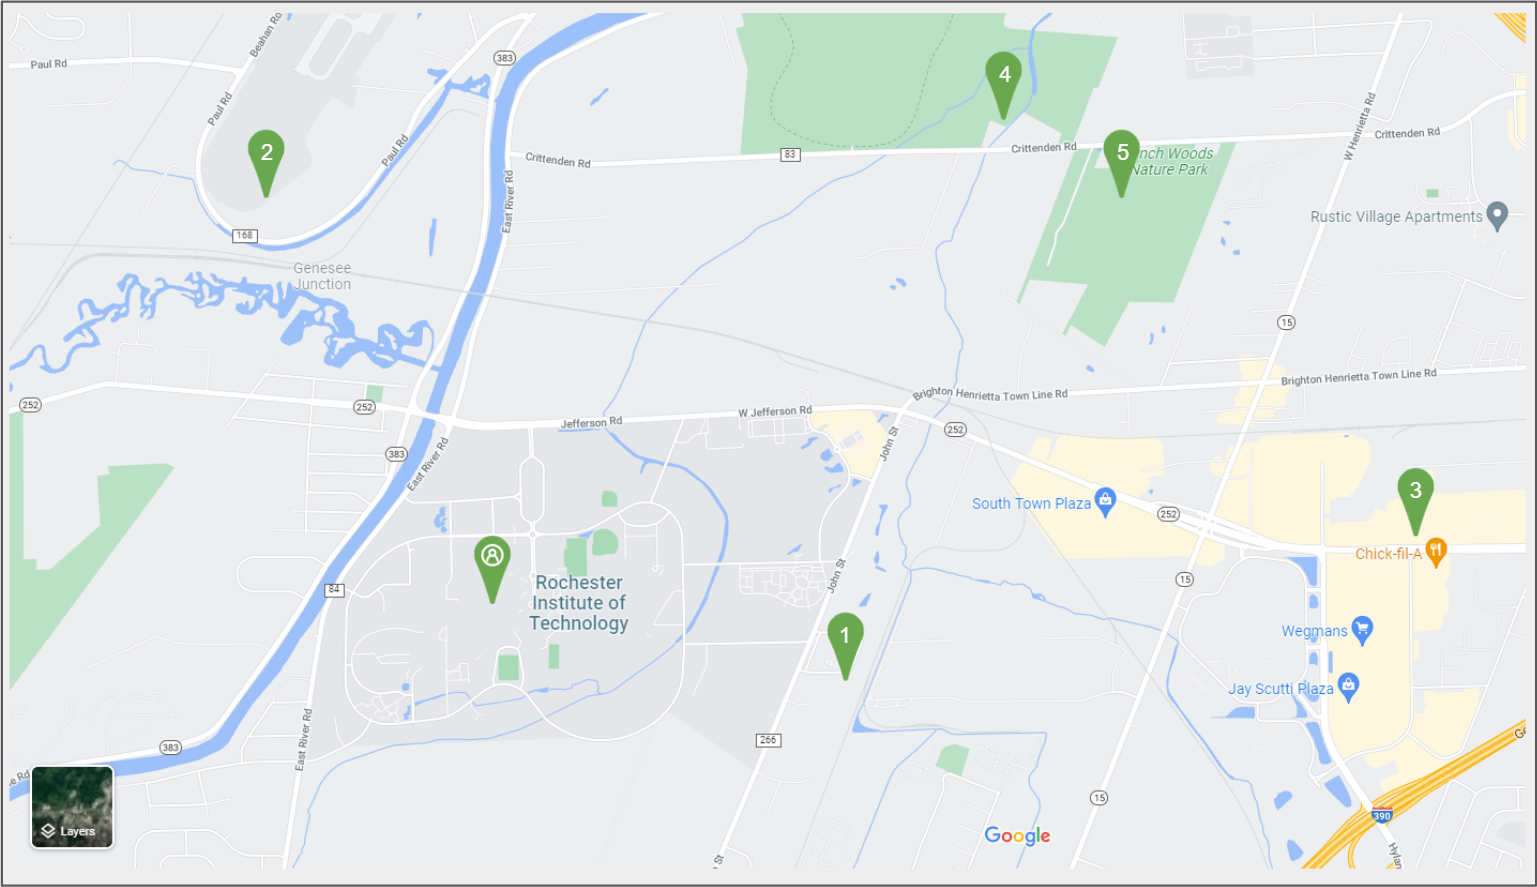
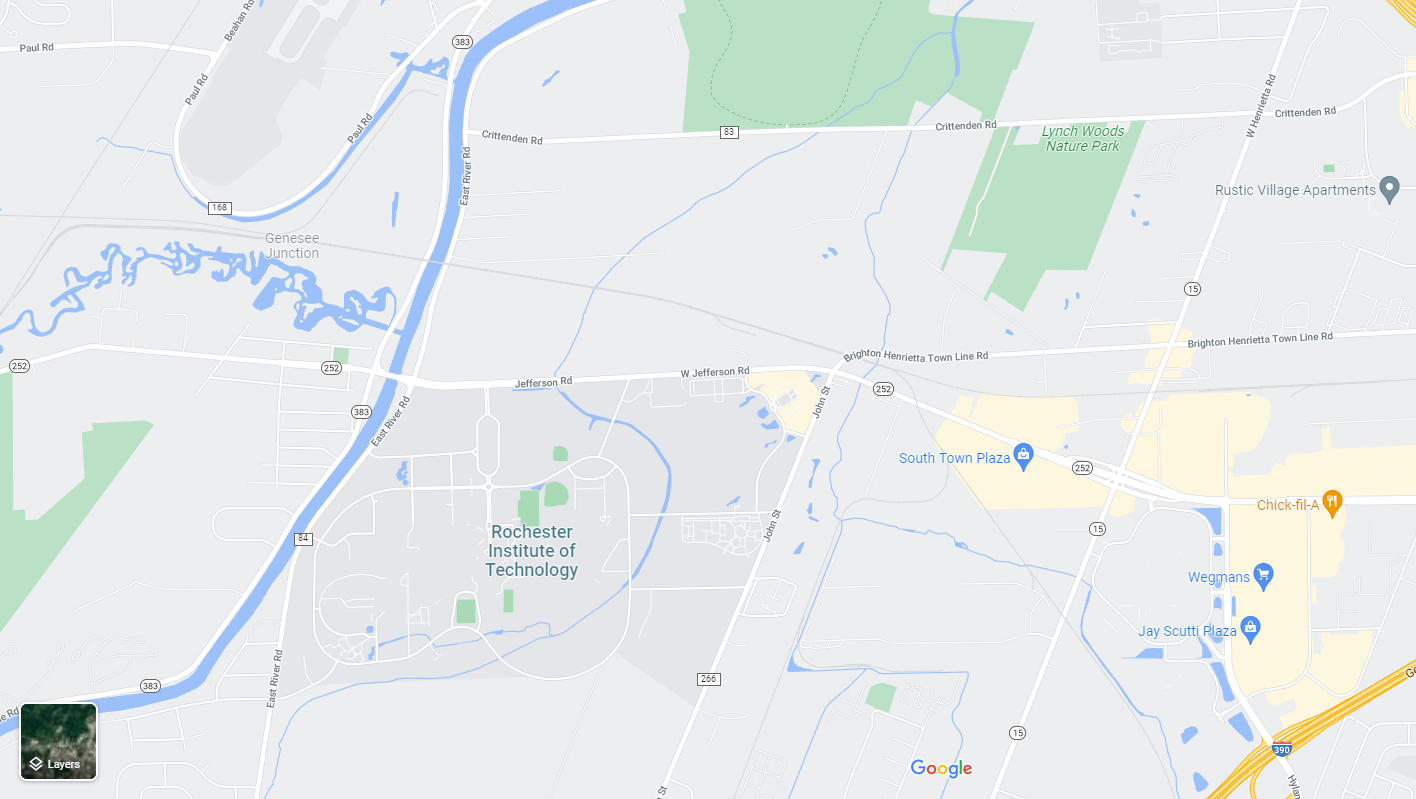
added linked pins in map and changed map images

diff --git a/docs/map.html b/docs/map.html
@@ -32,8 +32,15 @@
         <div style="display: flex; flex-grow: 10; align-items: center; justify-content: center;
         margin-left: 2%; margin-right: 2%;">
           <div class="images" style=" font-size: 20; display: flex; align-items: left; justify-content: left;
-          padding-left: 0%; height: 100%; margin: 1%;">
-              <img src="../Images/map.png" alt="test" style="max-block-size: 750px;">
+          padding-left: 0%; height: 100%; margin: 1%; background-image: url('../Images/map.png'); width: 100%; height: 100%; max-width: 1416px; max-height: 799px; position: relative; min-width:1416px; min-height: 799px;  ">
+          <a href="../docs/event1.html">
+            <img src="../images/pin.png" style="position: absolute; right: 600px; top: 460; max-block-size: 100px;"></img>
+            <p style="position: absolute; right: 645px; top: 460px; align-self: start; font-family: Nunito; color: white;">1</p>
+          </a>
+          <a href="../docs/accountE.html">
+            <img src="../images/pin.png" style="position: absolute; right: 800px; top: 400; max-block-size: 100px;"></img>
+            <img src="../Images/accounticon.png" style="position: absolute; right: 828px; top: 410; align-self: start; max-width: 45px; max-height: 45px;"></img>
+          </a>
           </div>
           <div style="font-family: Nunito;
            font-size: 20; display: flex; align-items: left; flex-direction: column; justify-content: left;
